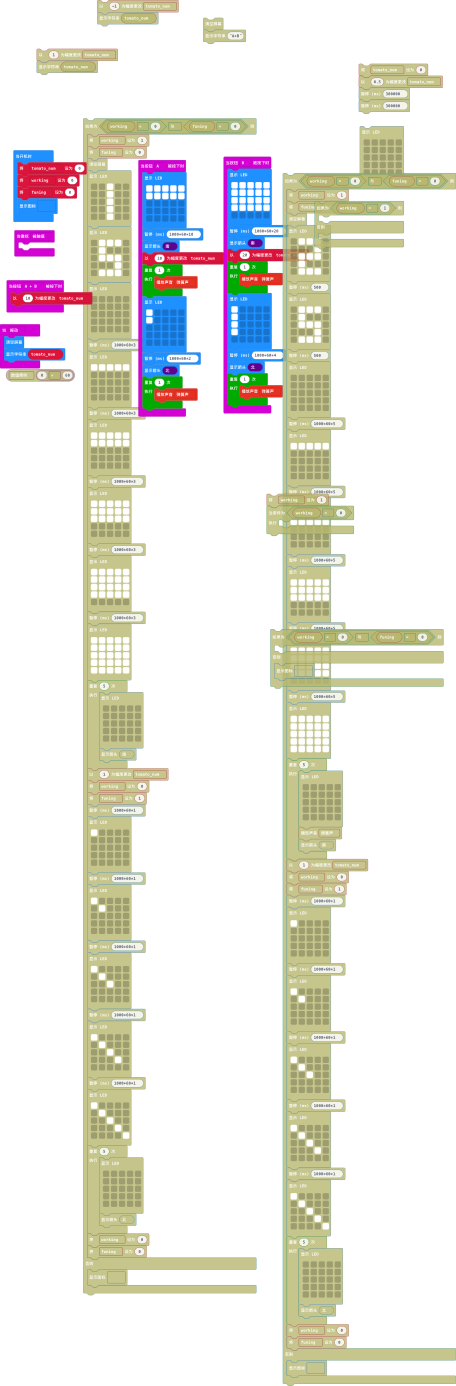
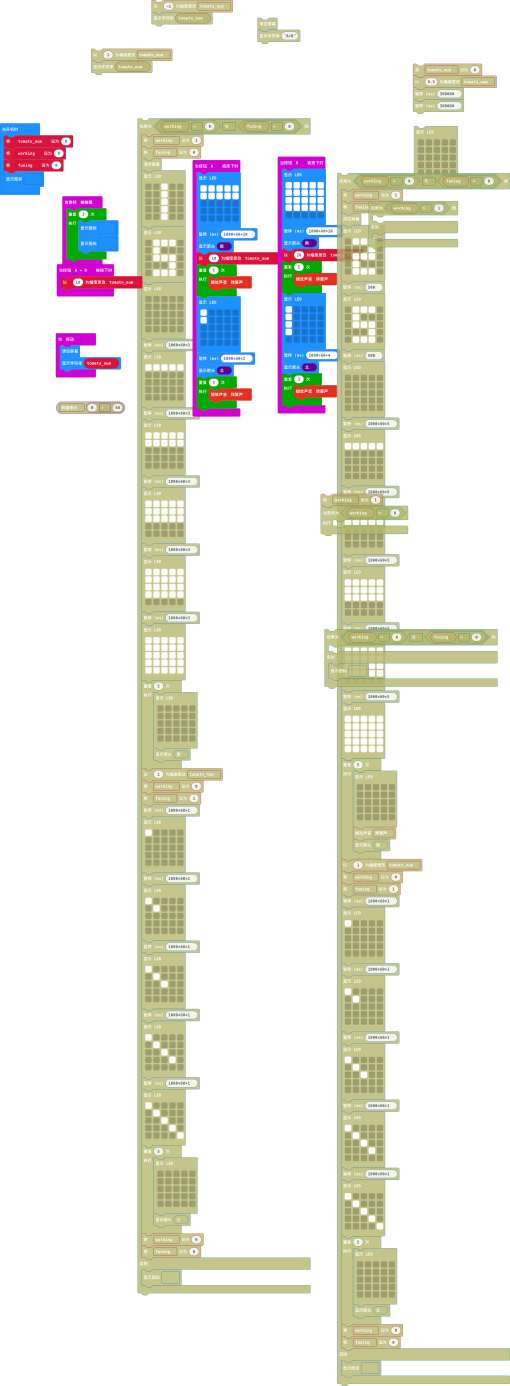
s

Changed region(s): [[0.0, 0.0, 0.9518, 1.0], [0.9518, 0.1241, 0.9825, 0.1551], [0.9211, 0.4343, 0.9518, 0.4654]]

diff --git a/main.ts b/main.ts
@@ -1,5 +1,8 @@
 input.onLogoEvent(TouchButtonEvent.Touched, function () {
-	
+    for (let index = 0; index < 3; index++) {
+        basic.showIcon(IconNames.SmallHeart)
+        basic.showIcon(IconNames.Heart)
+    }
 })
 input.onButtonPressed(Button.A, function () {
     basic.showLeds(`
@@ -12,7 +15,7 @@ input.onButtonPressed(Button.A, function () {
     basic.pause(1000*60*10)
     basic.showArrow(ArrowNames.South)
     tomato_num += 10
-    for (let index = 0; index < 1; index++) {
+    for (let index = 0; index < 5; index++) {
         soundExpression.spring.play()
     }
     basic.showLeds(`
@@ -24,7 +27,7 @@ input.onButtonPressed(Button.A, function () {
         `)
     basic.pause(1000*60*2)
     basic.showArrow(ArrowNames.North)
-    for (let index = 0; index < 1; index++) {
+    for (let index = 0; index < 3; index++) {
         soundExpression.spring.play()
     }
 })
@@ -46,7 +49,7 @@ input.onButtonPressed(Button.B, function () {
     basic.pause(1000*60*20)
     basic.showArrow(ArrowNames.South)
     tomato_num += 20
-    for (let index = 0; index < 1; index++) {
+    for (let index = 0; index < 5; index++) {
         soundExpression.spring.play()
     }
     basic.showLeds(`
@@ -58,7 +61,7 @@ input.onButtonPressed(Button.B, function () {
         `)
     basic.pause(1000*60*4)
     basic.showArrow(ArrowNames.North)
-    for (let index = 0; index < 1; index++) {
+    for (let index = 0; index < 3; index++) {
         soundExpression.spring.play()
     }
 })
